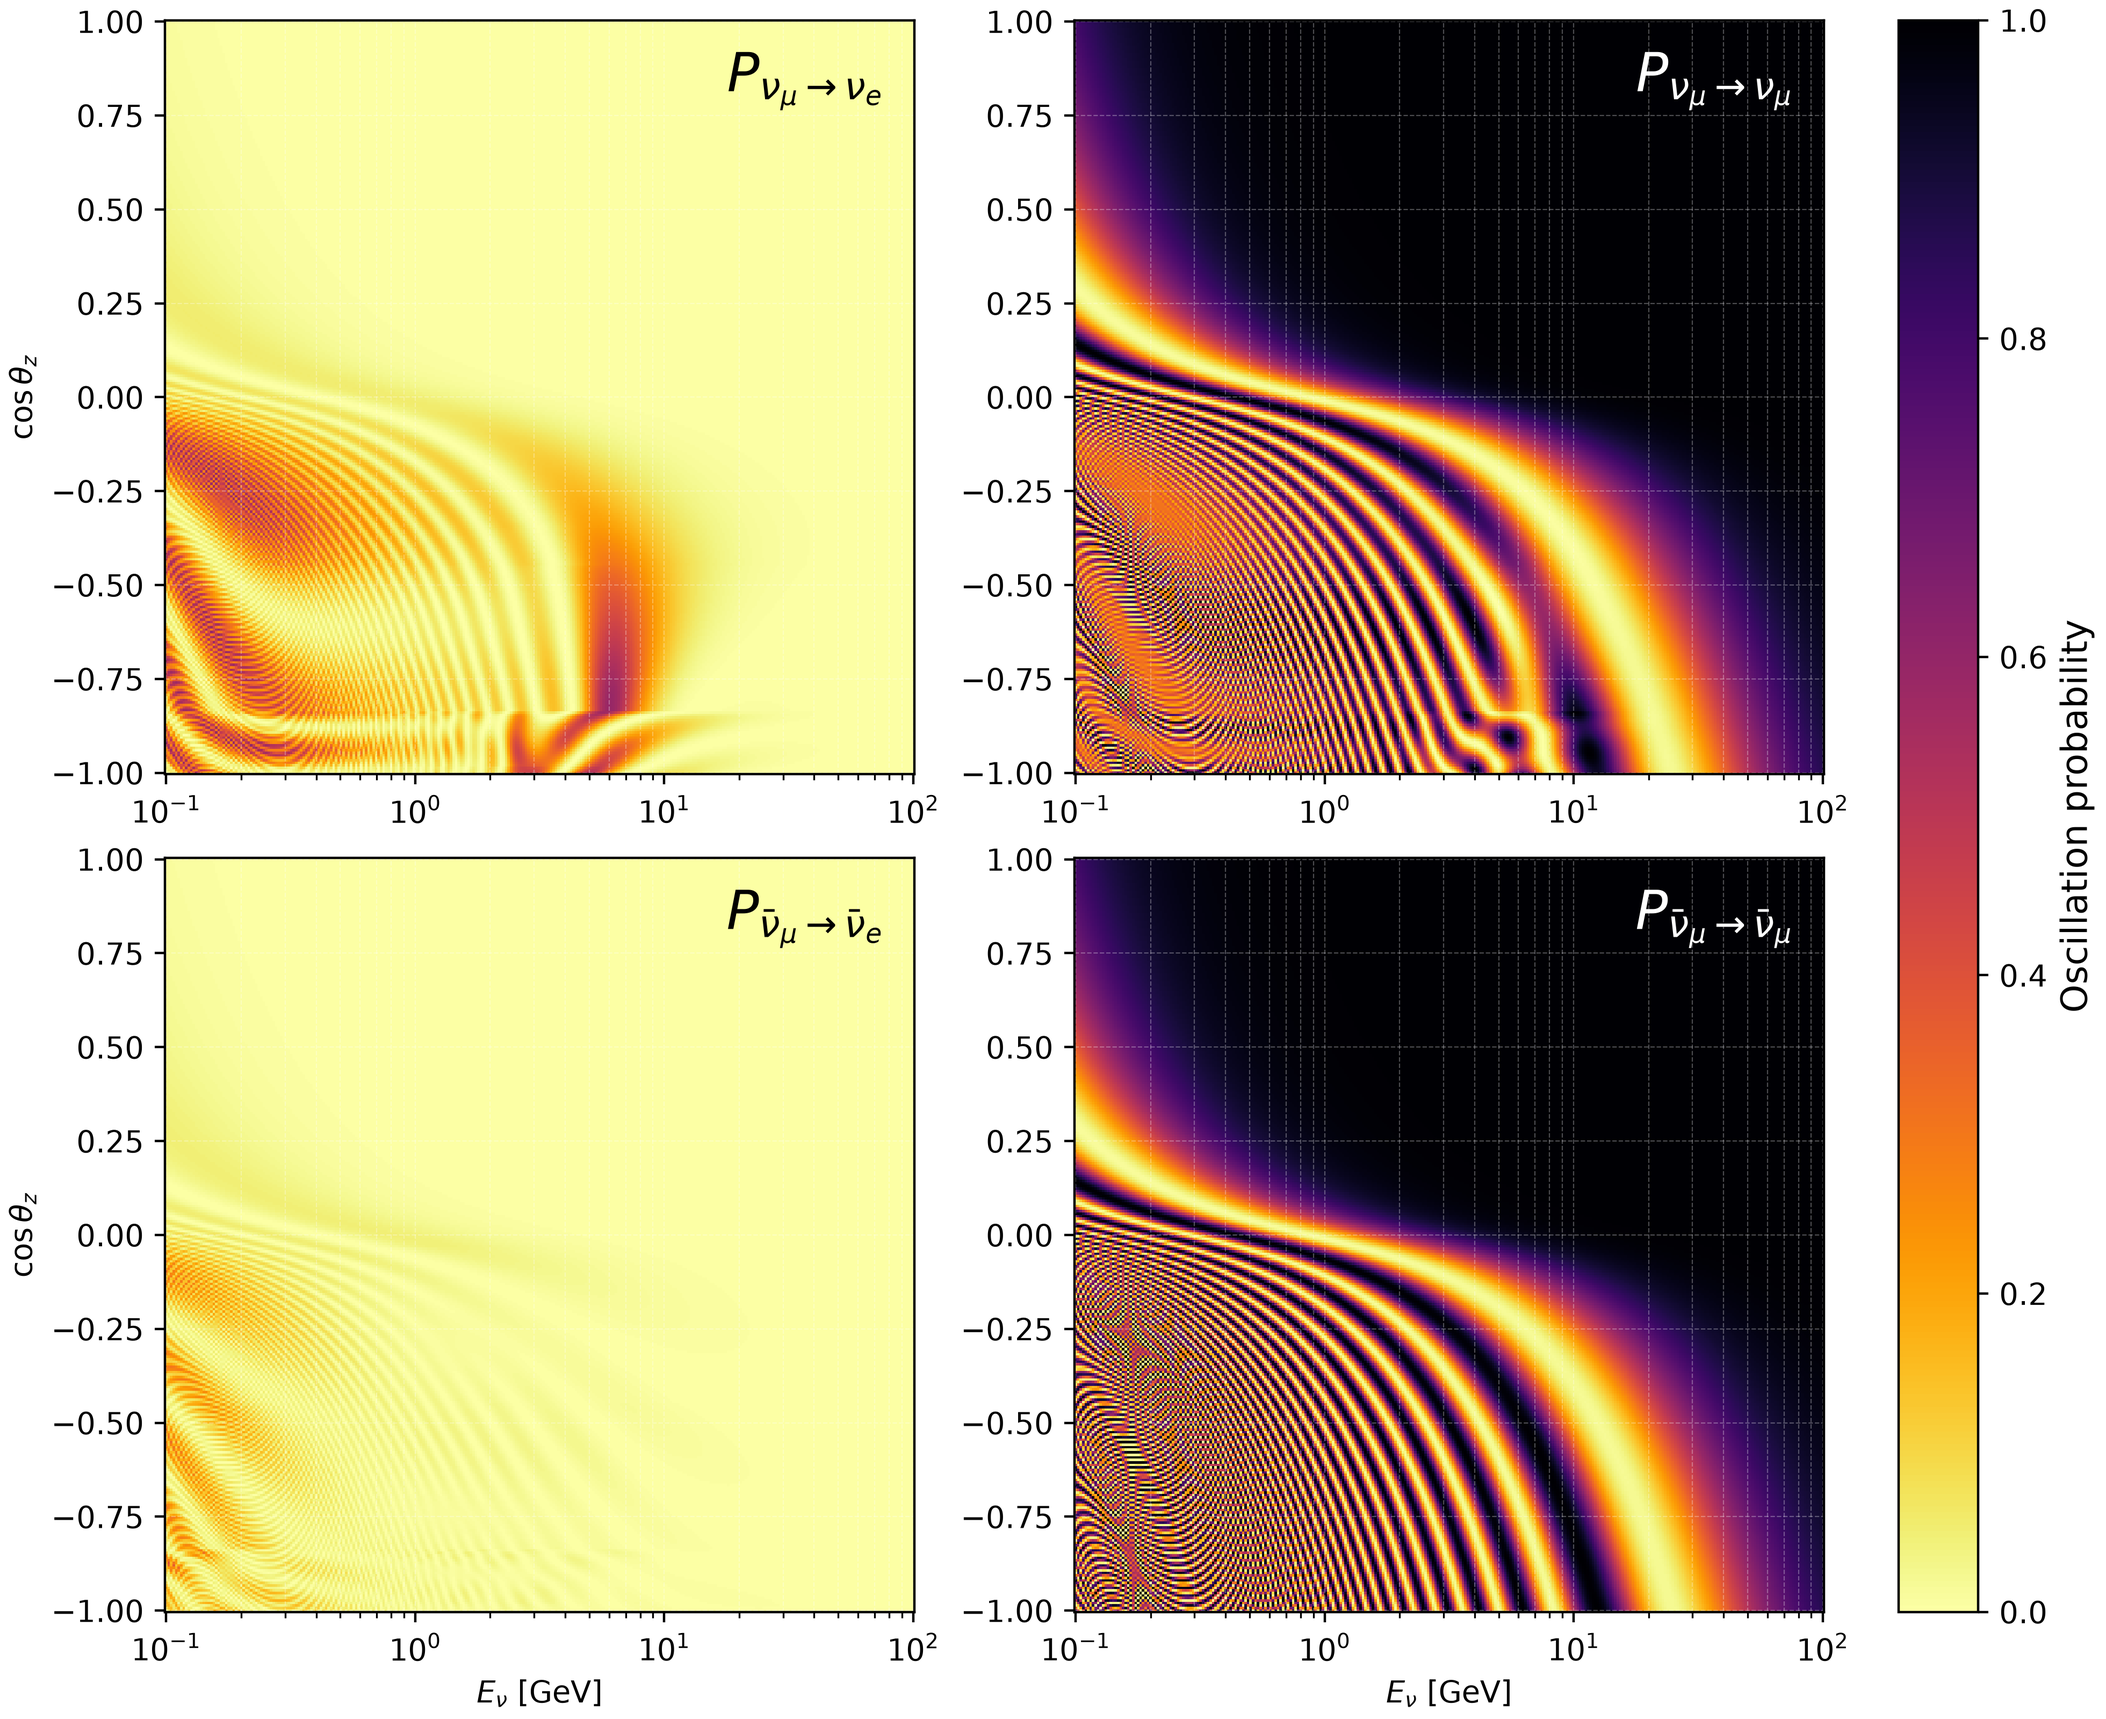
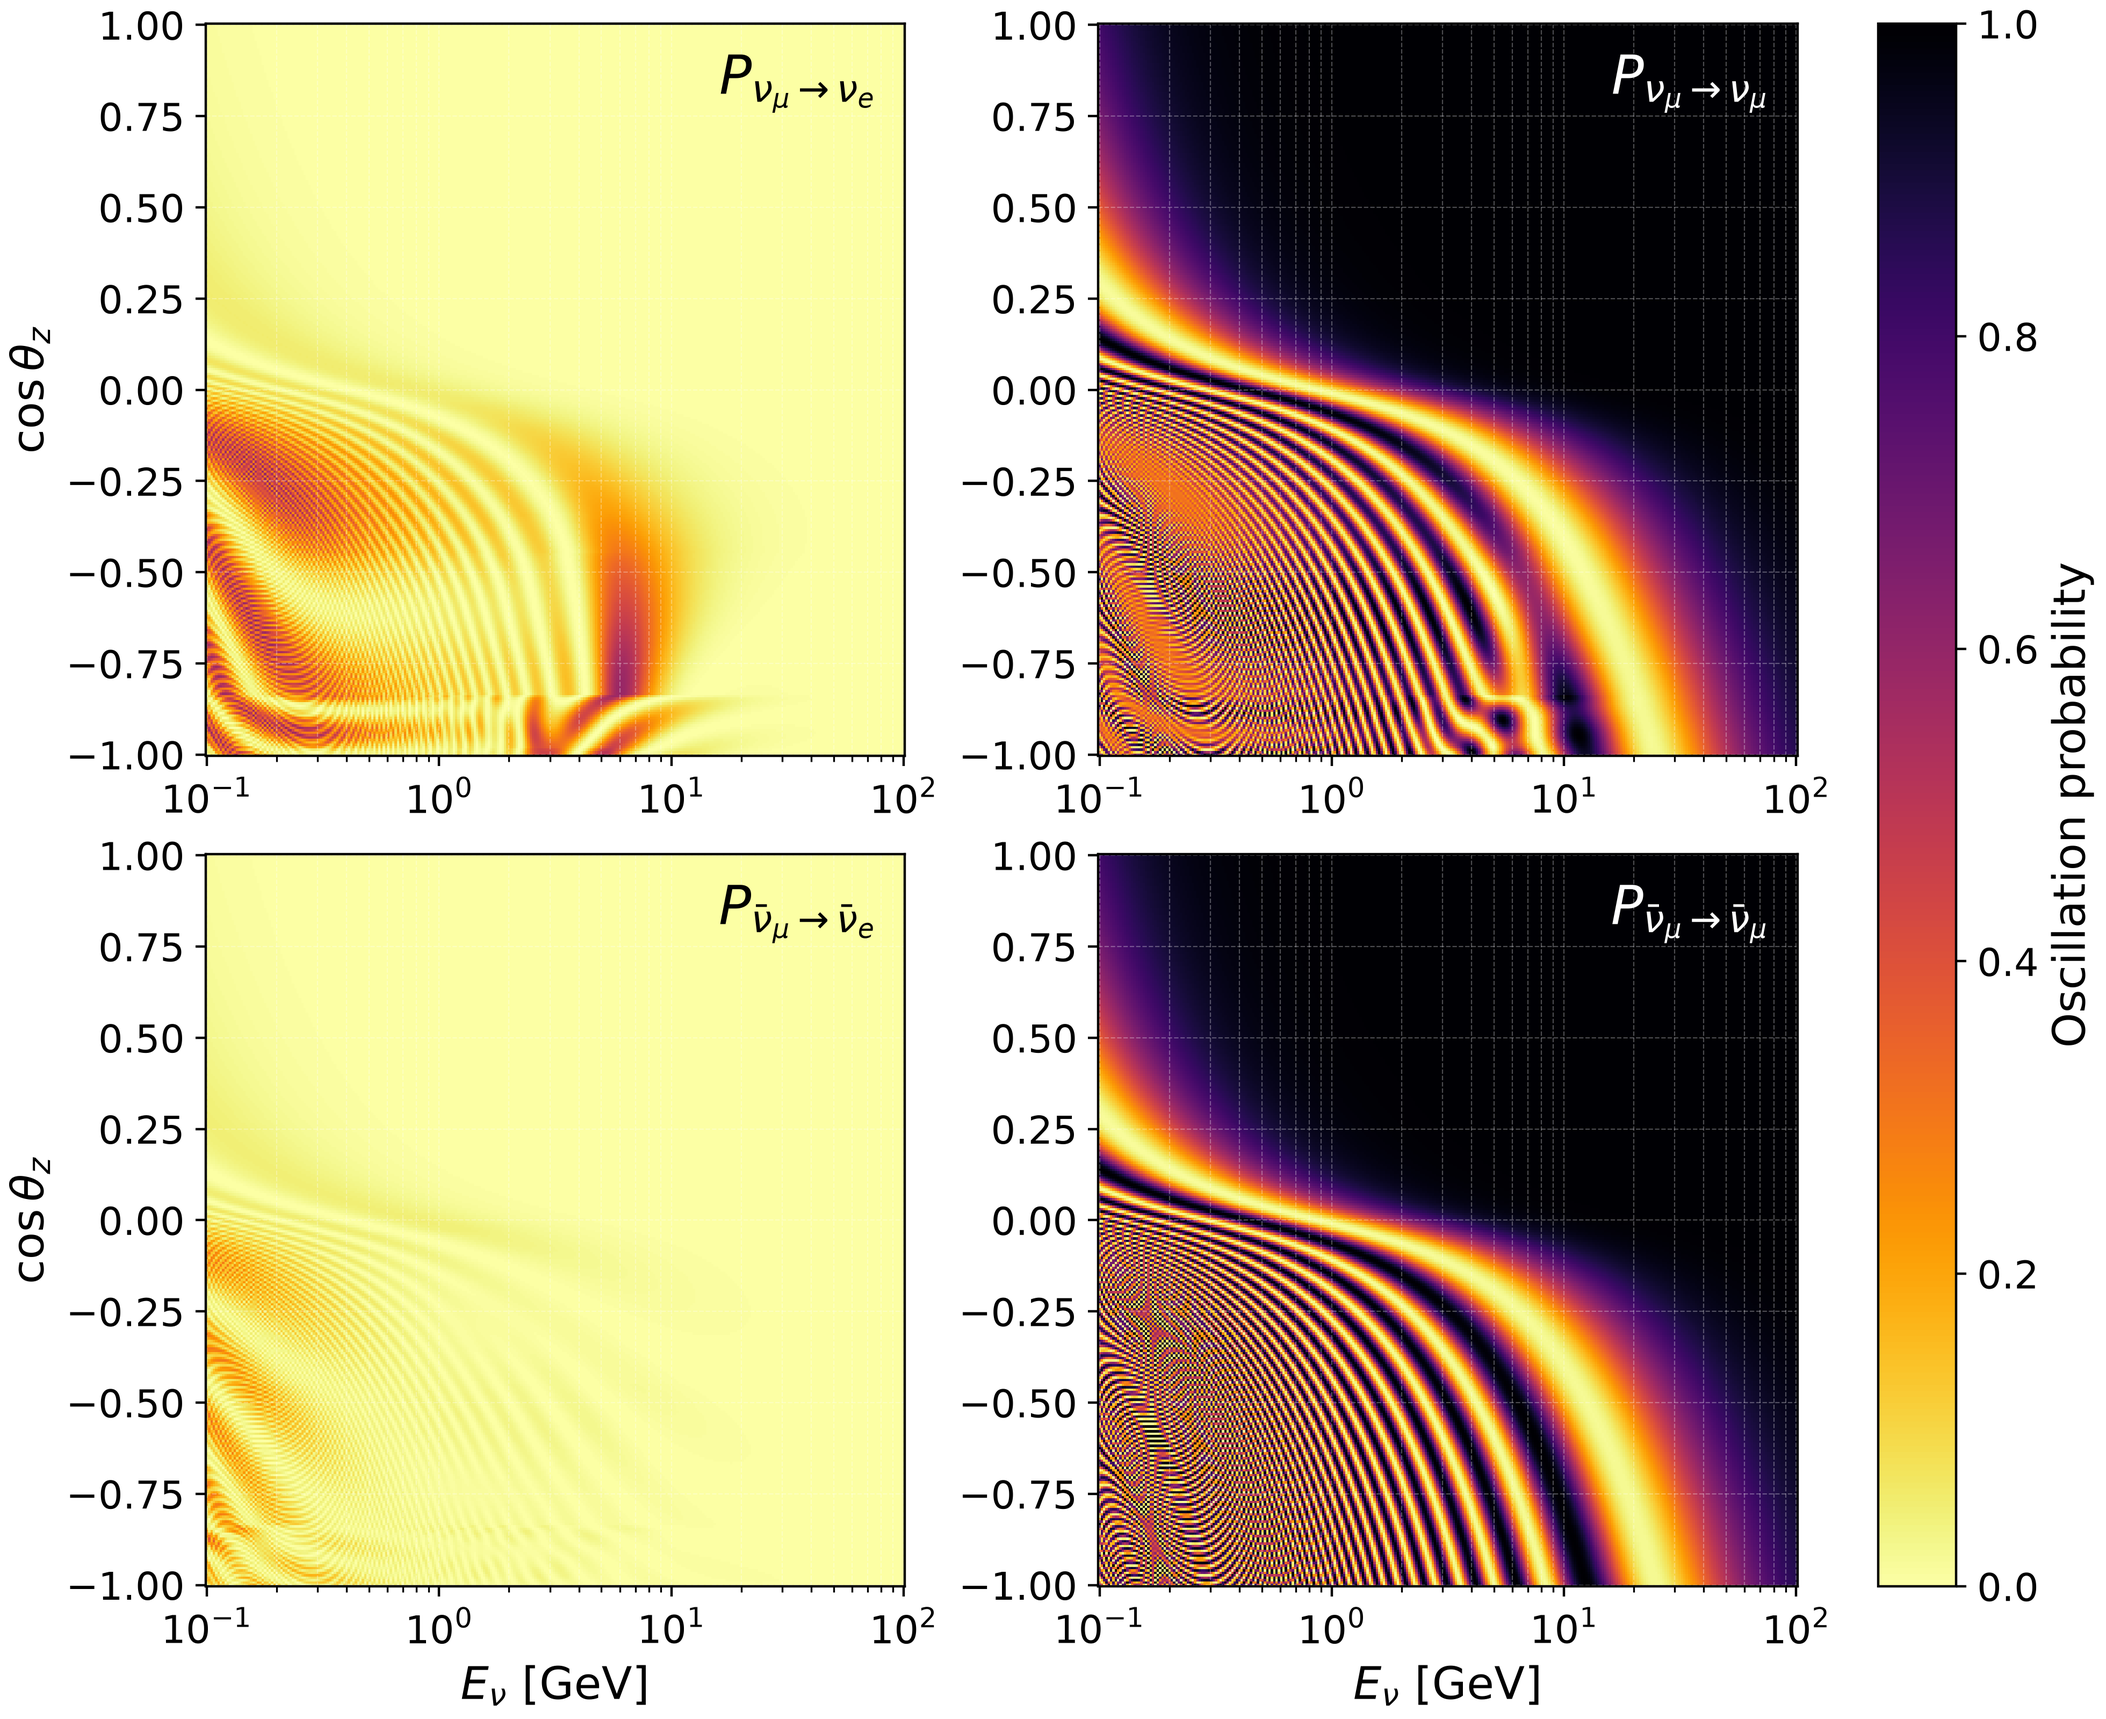
figures: scale fonts for print reduction
Both figure scripts produced text that printed at ~5 pt once the canvas was
scaled to \textwidth. Fig. 1 (matter_prem.py): 15 pt fonts on a 9.8 in canvas.
Fig. 2 (bench_timing_and_gradients.py): canvas 16.5 -> 13 in and fonts 15 -> 20
pt. Both now land near 10 pt on paper, matching the treatment
demo_tomography_fisher.py already had.

diff --git a/examples/nuwaves/matter_prem.py b/examples/nuwaves/matter_prem.py
@@ -37,6 +37,12 @@ panels = [
     (Pbar[..., Flavor.MU, Flavor.MU], r"$P_{\bar\nu_\mu \to \bar\nu_\mu}$", "white"),
 ]
 
+# The figure is placed at \textwidth (~6.3 in), so a 9.8 in canvas is scaled
+# by ~0.64. Default 10 pt text would print at ~6 pt; scale up so axis and
+# tick labels land near 10 pt on paper.
+plt.rcParams.update({"font.size": 15, "axes.titlesize": 16,
+                     "axes.labelsize": 15, "xtick.labelsize": 13,
+                     "ytick.labelsize": 13})
 fig, axs = plt.subplots(2, 2, figsize=(9.8, 8.0), dpi=140, constrained_layout=True)
 for ax, (Z, lab, col) in zip(axs.flat, panels):
     pc = ax.pcolormesh(E, cz, Z, vmin=0, vmax=1, shading="auto", cmap="inferno_r")
@@ -50,7 +56,7 @@ for ax in axs[:, 0]:
     ax.set_ylabel(r"$\cos\theta_z$")
 cbar = fig.colorbar(axs.flat[0].collections[0], ax=axs, location="right",
                     fraction=0.05, pad=0.03)
-cbar.set_label("Oscillation probability", fontsize=12)
+cbar.set_label("Oscillation probability", fontsize=15)
 plt.savefig(FIGDIR / "matter_prem_test.jpg", dpi=140)
 # also emit a lossless high-resolution copy: the JPEG is fine on screen but
 # its compression puts ringing artefacts into the fine near-horizon fringes,

diff --git a/benchmarks/bench_timing_and_gradients.py b/benchmarks/bench_timing_and_gradients.py
@@ -168,10 +168,13 @@ out["G"] = G
 out["Pmm"] = Pmm
 np.savez(os.path.join(OUTDIR, "jaxnu_bench_timing_and_gradients.npz"), **out)
 
-plt.rcParams.update({"font.size": 15, "axes.titlesize": 16,
-                     "axes.labelsize": 15, "xtick.labelsize": 13,
-                     "ytick.labelsize": 13})
-fig, axes = plt.subplots(2, 3, figsize=(16.5, 9.4), sharey=True, sharex=True)
+# Placed at \textwidth (~6.3 in). A 16.5 in canvas is scaled by 0.38, which
+# put the previous 15 pt text at under 6 pt on paper. Narrow the canvas to 13 in
+# (scale ~0.48) and raise the fonts so labels land near 10 pt printed.
+plt.rcParams.update({"font.size": 20, "axes.titlesize": 21,
+                     "axes.labelsize": 20, "xtick.labelsize": 17,
+                     "ytick.labelsize": 17})
+fig, axes = plt.subplots(2, 3, figsize=(13.0, 8.2), sharey=True, sharex=True)
 im = axes[0, 0].pcolormesh(czg, Eg, Pmm, cmap="viridis", shading="auto",
                            vmin=0, vmax=1)
 axes[0, 0].set_title(r"$P(\nu_\mu\to\nu_\mu)$")
